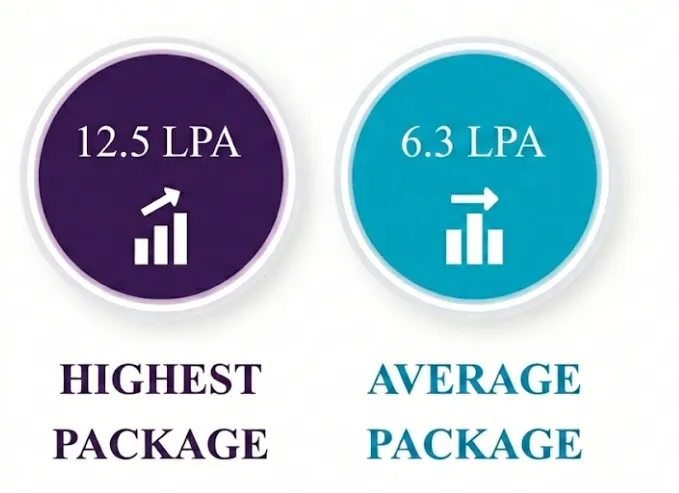
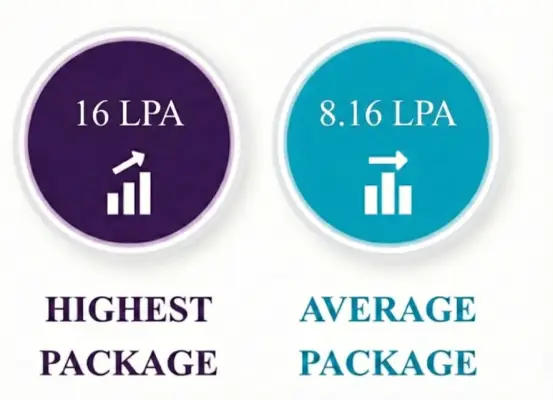
placement page

diff --git a/src/static/placement/placementdata.js b/src/static/placement/placementdata.js
@@ -4,10 +4,10 @@
         pdfName: "Placement Data 2023–25",
     pdfUrl: "/placement/2023-25.xlsx",
       statsImages: [
-        { img: "/placement/sectorial.png", title: "Sectoral Distribution" },
-        { img: "/placement/spec.png", title: "Specialization" },
-        { img: "/placement/package.png", title: "Package Overview" },
-        { img: "/placement/location.png", title: "Location Distribution" },
+        { img: "/placement/sectorial.webp", title: "Sectoral Distribution" },
+        { img: "/placement/spec.webp", title: "Specialization" },
+        { img: "/placement/package.webp", title: "Package Overview" },
+        { img: "/placement/location.webp", title: "Location Distribution" },
       ],
      
     },
